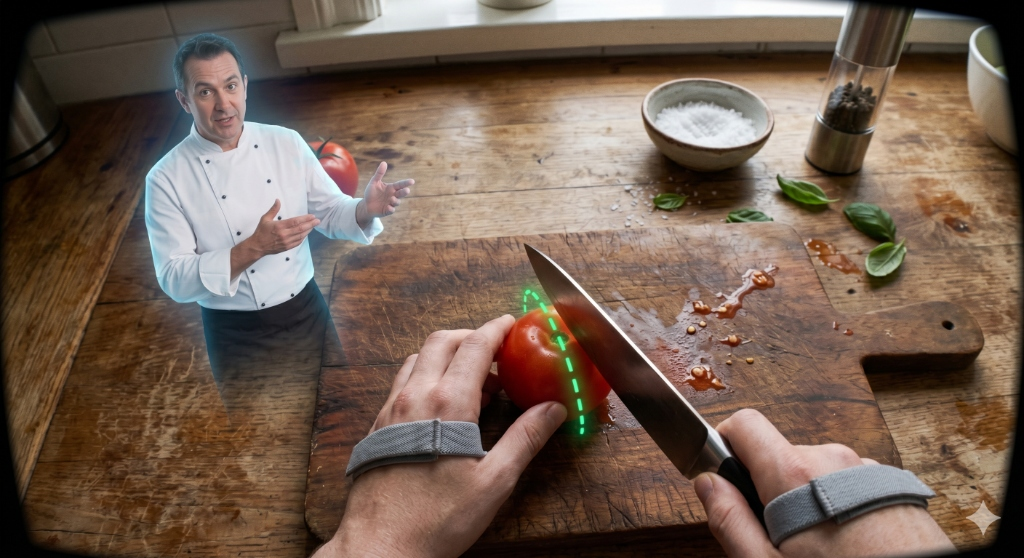
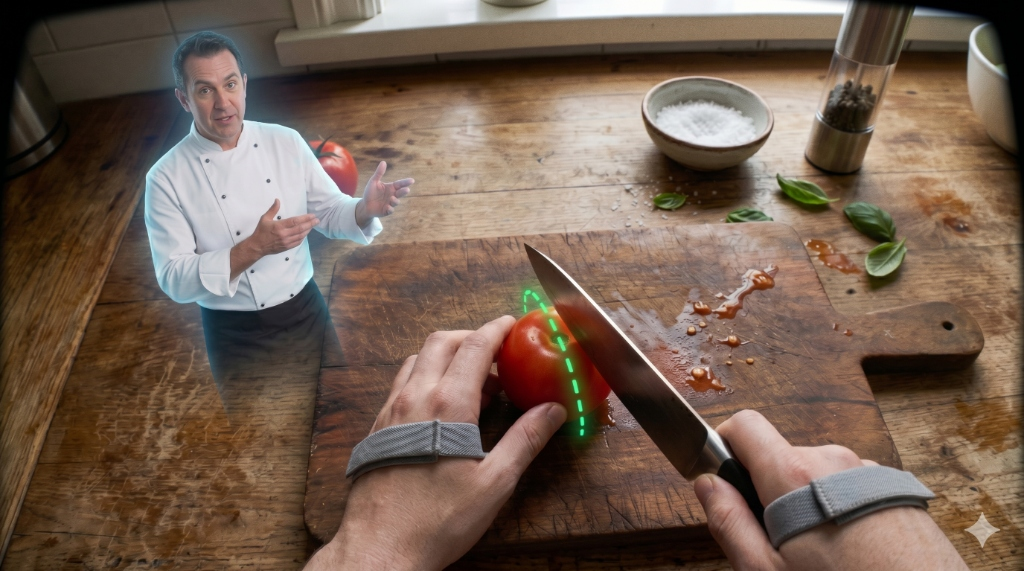
Remove piscada da transicao VR, botao replay sempre visivel, duas imagens de fundo

diff --git a/src/App.jsx b/src/App.jsx
@@ -4,46 +4,50 @@ import VRIntro from './VRIntro'
 import './App.css'
 
 function App() {
-  const [introCompleta, setIntroCompleta] = useState(false)
+  const [introRodando, setIntroRodando] = useState(false)
+  const [vrJaRodou, setVrJaRodou] = useState(false)
+  const [introKey, setIntroKey] = useState(0)
 
   const handleIntroComplete = useCallback(() => {
-    setIntroCompleta(true)
+    setIntroRodando(false)
+    setVrJaRodou(true)
   }, [])
+
+  const handleReplay = () => {
+    setIntroRodando(true)
+    setIntroKey(prev => prev + 1)
+  }
+
+  const fundoAtual = vrJaRodou ? '/cozinha.png' : '/inicio.png'
 
   return (
     <>
-      {!introCompleta && <VRIntro onComplete={handleIntroComplete} />}
+      {introRodando && <VRIntro key={introKey} onComplete={handleIntroComplete} />}
 
-      <motion.main
+      <main
         className="pagina-principal"
-        initial={{ opacity: 0, filter: 'blur(20px)' }}
-        animate={
-          introCompleta
-            ? { opacity: 1, filter: 'blur(0px)' }
-            : { opacity: 0, filter: 'blur(20px)' }
-        }
-        transition={{ duration: 1.2, ease: [0.22, 1, 0.36, 1] }}
-      >
-        <motion.div
-          className="fundo-cozinha"
-          role="img"
-          aria-label="Cozinha moderna e sofisticada"
-          initial={{ scale: 1.1 }}
-          animate={introCompleta ? { scale: 1 } : { scale: 1.1 }}
-          transition={{ duration: 1.8, ease: [0.22, 1, 0.36, 1] }}
-        />
-      </motion.main>
+        style={{ backgroundImage: `url('${fundoAtual}')` }}
+      />
 
-      <motion.footer
-        className="rodape-flutuante"
-        initial={{ opacity: 0 }}
-        animate={introCompleta ? { opacity: 1 } : { opacity: 0 }}
-        transition={{ duration: 0.8, delay: 1.3 }}
+      <footer className="rodape-flutuante">
+        © 2026 Hack Barão
+      </footer>
+
+      <motion.button
+        className="botao-replay"
+        onClick={handleReplay}
+        initial={{ opacity: 1, scale: 1 }}
+        whileHover={{ scale: 1.1, boxShadow: '0 0 20px rgba(56,182,255,0.5)' }}
+        whileTap={{ scale: 0.95 }}
+        title="Repetir animação VR"
       >
-        © 2026 Hack Barão Antigravidade
-      </motion.footer>
+        🥽 Replay VR
+      </motion.button>
     </>
   )
 }
 
 export default App
+
+
+

diff --git a/src/VRIntro.jsx b/src/VRIntro.jsx
@@ -9,14 +9,11 @@ export default function VRIntro({ onComplete }) {
     const tempos = [
       setTimeout(() => setFase('aparece'), 300),
       setTimeout(() => setFase('zoom'), 2200),
+      setTimeout(() => { if (onComplete) onComplete() }, 4200),
       setTimeout(() => setFase('fim'), 4600),
     ]
     return () => tempos.forEach(clearTimeout)
-  }, [])
-
-  useEffect(() => {
-    if (fase === 'fim' && onComplete) onComplete()
-  }, [fase, onComplete])
+  }, [onComplete])
 
   const LENTE_ESQUERDA = '43% 48%'
 
@@ -27,7 +24,7 @@ export default function VRIntro({ onComplete }) {
           key="vr-intro"
           className="fixed inset-0 z-[200] overflow-hidden bg-black"
           initial={{ opacity: 1 }}
-          exit={{ opacity: 0, transition: { duration: 0.3 } }}
+          exit={{ opacity: 0, transition: { duration: 0 } }}
         >
           <motion.div
             className="absolute inset-0 z-[1]"
@@ -135,25 +132,7 @@ export default function VRIntro({ onComplete }) {
             )}
           </AnimatePresence>
 
-          <motion.button
-            className="absolute bottom-5 right-5 z-[210] px-4 py-2 text-xs font-medium uppercase tracking-wider rounded-full cursor-pointer border select-none"
-            style={{
-              color: 'rgba(56,182,255,0.5)',
-              background: 'rgba(255,255,255,0.04)',
-              borderColor: 'rgba(56,182,255,0.15)',
-            }}
-            onClick={() => setFase('fim')}
-            initial={{ opacity: 0 }}
-            animate={{ opacity: 0.7 }}
-            whileHover={{
-              opacity: 1,
-              borderColor: 'rgba(56,182,255,0.4)',
-              color: 'rgba(56,182,255,0.8)',
-            }}
-            transition={{ delay: 0.8, duration: 0.4 }}
-          >
-            Pular ✕
-          </motion.button>
+
         </motion.div>
       )}
     </AnimatePresence>

diff --git a/src/App.css b/src/App.css
@@ -3,28 +3,9 @@
   width: 100%;
   min-height: 100vh;
   overflow: hidden;
-}
-
-.fundo-cozinha {
-  position: absolute;
-  inset: 0;
-  z-index: 0;
-  background-image: url('/cozinha.png');
   background-size: cover;
   background-position: center;
   background-repeat: no-repeat;
-}
-
-.fundo-cozinha::after {
-  content: '';
-  position: absolute;
-  inset: 0;
-  background: linear-gradient(
-    180deg,
-    var(--cor-fundo-overlay) 0%,
-    rgba(10, 10, 30, 0.35) 50%,
-    var(--cor-fundo-overlay) 100%
-  );
 }
 
 .conteudo-hero {
@@ -120,4 +101,29 @@
     padding: 0.85rem 2rem;
     font-size: 0.9rem;
   }
+}
+
+.botao-replay {
+  position: fixed;
+  bottom: 1.5rem;
+  right: 1.5rem;
+  z-index: 50;
+  padding: 0.7rem 1.4rem;
+  font-size: 0.85rem;
+  font-weight: 600;
+  letter-spacing: 0.05em;
+  color: rgba(56, 182, 255, 0.9);
+  background: rgba(10, 10, 30, 0.6);
+  backdrop-filter: blur(12px);
+  -webkit-backdrop-filter: blur(12px);
+  border: 1px solid rgba(56, 182, 255, 0.3);
+  border-radius: 50px;
+  cursor: pointer;
+  transition: all 0.3s ease;
+}
+
+.botao-replay:hover {
+  background: rgba(56, 182, 255, 0.15);
+  border-color: rgba(56, 182, 255, 0.6);
+  color: rgba(56, 182, 255, 1);
 }
